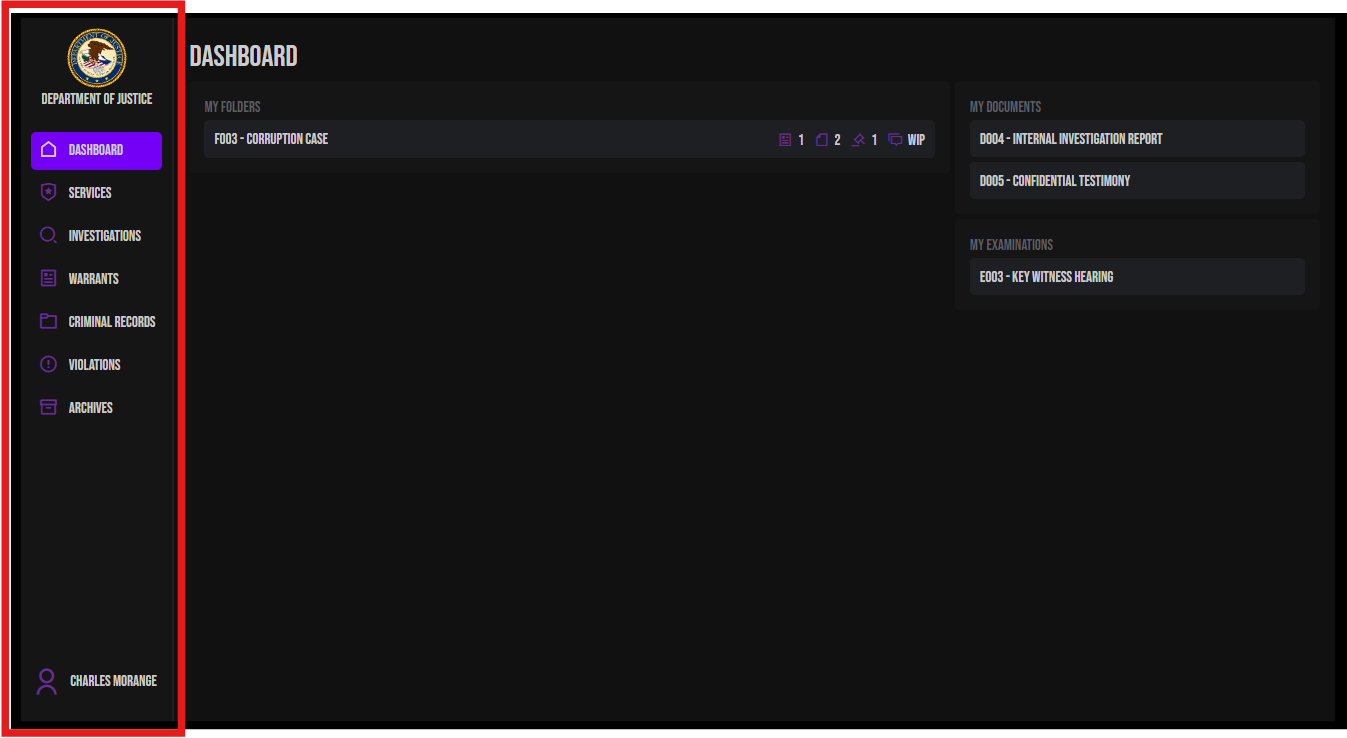
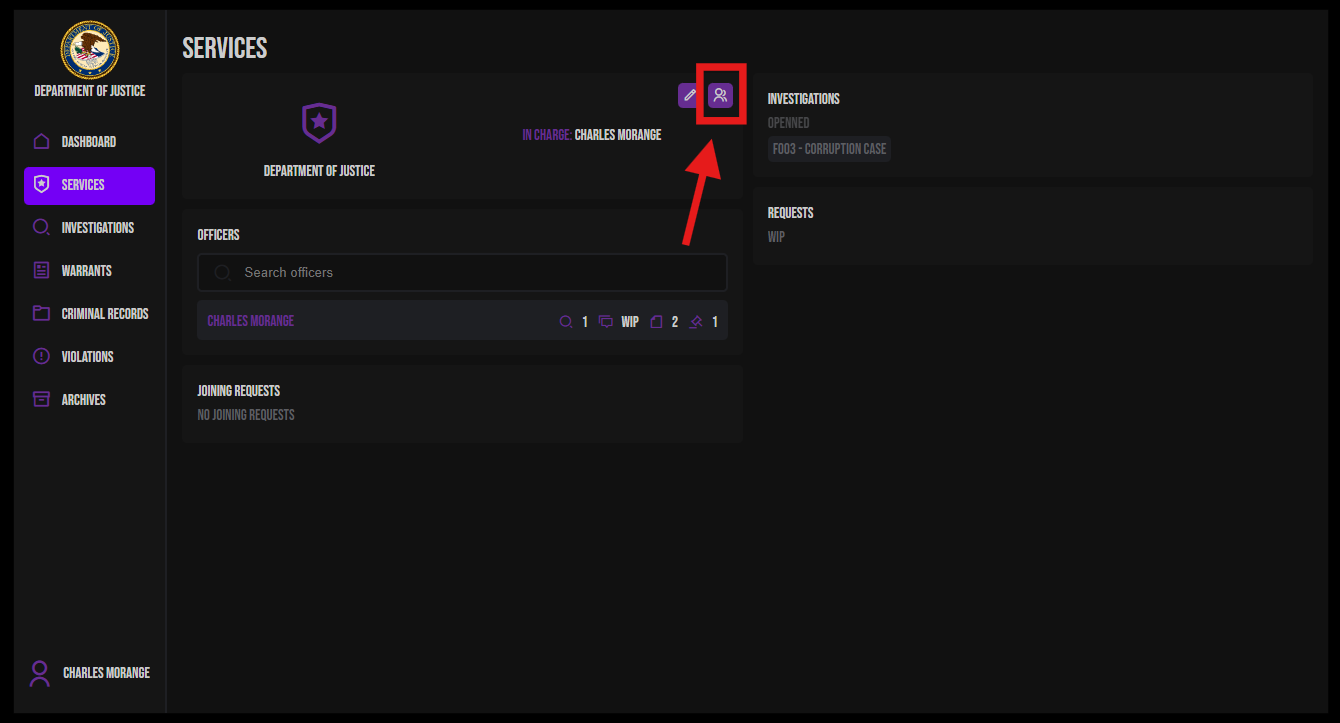
GITBOOK-4: No subject

diff --git a/paid-scripts/madonnedoj/configuration/permissions-system.md b/paid-scripts/madonnedoj/configuration/permissions-system.md
@@ -3,7 +3,7 @@ cover: ../.gitbook/assets/banner.png
 coverY: 0
 ---
 
-# Permission Management System
+# Permissions System
 
 ## Overview
 
@@ -11,243 +11,75 @@ The mg-dojscript permission system allows granular access control for each servi
 
 ## Accessing the Permissions Page
 
+<figure><img src="../../../.gitbook/assets/image (5).png" alt=""><figcaption></figcaption></figure>
+
 The permissions management page is accessible via:
-- **Route**: `/permissions?uid={serviceId}`
-- **Component**: `Permissions.vue`
-- **Access Conditions**: Reserved for service chiefs and users authorized to manage services
+
+* Open your service page
+* Click on role management button
 
 ## Available Permissions List
 
 The system has **10 distinct permissions**:
 
-| Permission | Binary Value | Description |
-|------------|--------------|-------------|
-| `MANAGE_FOLDERS` | 1 (1 << 0) | Create and edit investigations |
-| `MANAGE_DOCUMENTS` | 2 (1 << 1) | Create and edit documents |
-| `MANAGE_WARRANTS` | 4 (1 << 2) | Create and edit warrants |
-| `ISSUE_WARRANTS` | 8 (1 << 3) | Issue/send warrants (Justice only) |
-| `MANAGE_EXAMINATIONS` | 16 (1 << 4) | Create and edit examinations |
-| `MANAGE_REQUESTS` | 32 (1 << 5) | Manage requests (currently disabled) |
-| `MANAGE_RECORDS` | 64 (1 << 6) | Edit criminal records |
-| `MANAGE_SERVICES` | 128 (1 << 7) | Manage membership requests and service settings |
-| `MANAGE_VIOLATIONS` | 256 (1 << 8) | Create and edit violations |
-| `ARCHIVE_FOLDERS` | 512 (1 << 9) | Archive investigations (Justice only) |
+| Permission            | Description                                     |
+| --------------------- | ----------------------------------------------- |
+| `MANAGE_FOLDERS`      | Create and edit investigations                  |
+| `MANAGE_DOCUMENTS`    | Create and edit documents                       |
+| `MANAGE_WARRANTS`     | Create and edit warrants                        |
+| `ISSUE_WARRANTS`      | Issue/send warrants (Justice only)              |
+| `MANAGE_EXAMINATIONS` | Create and edit examinations                    |
+| `MANAGE_REQUESTS`     | Manage requests (currently disabled)            |
+| `MANAGE_RECORDS`      | Edit criminal records                           |
+| `MANAGE_SERVICES`     | Manage membership requests and service settings |
+| `MANAGE_VIOLATIONS`   | Create and edit violations                      |
+| `ARCHIVE_FOLDERS`     | Archive investigations (Justice only)           |
 
-## Technical Implementation
+{% hint style="danger" %}
+DON'T FORGET TO SAVE
 
-### Data Structure
-
-Each role consists of:
-```javascript
-{
-  name: "CHIEF",          // Role name
-  value: 127              // Combined permission value (bit flags)
-}
-```
-
-### Bit Flags System
-
-Permissions use binary operations to combine multiple rights into a single value:
-
-- **Check**: `(userRole.value & permission) === permission`
-- **Enable**: `role.value |= bit`
-- **Disable**: `role.value &= ~bit`
-
-**Example**:
-- A role with `MANAGE_FOLDERS` (1) + `MANAGE_DOCUMENTS` (2) + `MANAGE_WARRANTS` (4) = **value 7**
-- A role with all permissions = **value 1023** (2^10 - 1)
+![](<../../../.gitbook/assets/image (47).png>)
+{% endhint %}
 
 ## Management Interface
 
 ### Features
 
 #### 1. Adding Roles
-- Maximum **6 custom roles** per service
-- The `USER` role is permanent and cannot be deleted
-- Unique name validation
+
+* Maximum **6 custom roles** per service
+* The `USER` role is permanent and cannot be deleted
+* Unique name validation
 
 #### 2. Editing Roles
-- Rename existing roles (except `USER`)
-- Modify permissions via checkboxes
-- Deletion possible (except `USER`)
+
+* Rename existing roles (except `USER`)
+* Modify permissions via checkboxes
+* Deletion possible (except `USER`)
 
 #### 3. Permission Management
-- Table interface with:
-  - **Rows**: List of 10 permissions
-  - **Columns**: Service roles
-- Checkboxes to enable/disable each permission
+
+* Table interface with:
+  * **Rows**: List of 10 permissions
+  * **Columns**: Service roles
+* Checkboxes to enable/disable each permission
 
 #### 4. Smart Save
 
 During save:
 
 **a) Automatic User Synchronization**
-- Users whose role was deleted are demoted to `USER` role
-- Users keep their role if it still exists
-- Automatic update of permission values if modified
+
+* Users whose role was deleted are demoted to `USER` role
+* Users keep their role if it still exists
+* Automatic update of permission values if modified
 
 **b) Service Chiefs Update**
-- Chiefs automatically receive the **highest role** (highest permission value)
-- Ensures chiefs always have maximum access
+
+* Chiefs automatically receive the **highest role** (highest permission value)
+* Ensures chiefs always have maximum access
 
 **c) Change Propagation**
-- Changes are sent to the server via `sendNuiEvent('updateData')`
-- Cascading update of service, users, and chiefs
 
-## Usage in Code
-
-### Permission Checks
-
-The `isAuthorised(type, id)` function centralizes all checks:
-
-```javascript
-import { isAuthorised } from '@/utils/functions'
-
-// Usage examples
-if (isAuthorised('newFolder')) {
-  // Create a new investigation
-}
-
-if (isAuthorised('editDoc', documentId)) {
-  // Edit the document
-}
-
-if (isAuthorised('issueWarrant', warrantId)) {
-  // Issue a warrant
-}
-```
-
-### Available Check Types
-
-#### Creations (`new*`)
-- `newFolder`: Create an investigation
-- `newDoc`: Create a document in an investigation
-- `newWarrant`: Create a warrant in an investigation
-- `newExam`: Create an examination in an investigation
-- `newViolation`: Create a violation
-- `newReccord`: Create a record (always authorized)
-
-#### Modifications (`edit*`)
-- `editFolder`: Edit an investigation
-- `editDoc`: Edit a document
-- `editWarrant`: Edit a warrant
-- `editExam`: Edit an examination
-- `editReccords`: Edit criminal records
-- `editOff`: Edit an officer (chiefs only)
-- `editPendings`: Manage membership requests
-- `editService`: Edit service settings
-
-#### Special Actions
-- `issueWarrant`: Issue a warrant (Justice + permission)
-- `sendWarrant`: Send a warrant (Justice + permission)
-- `archiveFolder`: Archive an investigation (Justice + permission)
-
-## Permission Logic
-
-### Authorization Hierarchy
-
-For most actions, multiple authorization levels exist:
-
-1. **Agent in charge**: Can always edit elements they are responsible for
-2. **Service permission**: Requires permission + belonging to the right service
-3. **Service chief**: Priority access to the service
-4. **Justice service**: Special permissions for certain actions (warrants, archives)
-
-**Example for editing a document**:
-```javascript
-// Authorized IF:
-// - User is in charge of the document OR
-// - User has MANAGE_DOCUMENTS AND belongs to a service linked to the investigation
-// AND the folder is not archived
-```
-
-### Special Restrictions
-
-- **Archived items**: Documents, warrants, and examinations in archived investigations can no longer be edited
-- **Justice warrants**: Only members of a justice service with `ISSUE_WARRANTS` can issue them
-- **Archives**: Only justice services with `ARCHIVE_FOLDERS` can archive
-
-## Warnings and Limitations
-
-### Warning Messages
-
-In the management interface:
-- **Maximum roles**: "COMPONENTS.NOTIFICATIONS.MAX_ROLES" (6 roles max)
-- **Justice roles**: "Some roles will not be used if your service is not judicial"
-- **Navigation**: "Scroll wheel for vertical / Shift + Scroll wheel for horizontal"
-
-### Useless Permissions for Non-Justice Services
-
-The following permissions will only work for services marked as `isJustice: true`:
-- `ISSUE_WARRANTS`
-- `ARCHIVE_FOLDERS`
-
-## Recommendations
-
-### Typical Configuration by Role
-
-**USER Role (default)**
-- No permissions (value: 0)
-- Can only view items they are responsible for
-
-**AGENT Role**
-- `MANAGE_DOCUMENTS` (2)
-- `MANAGE_EXAMINATIONS` (16)
-- `MANAGE_VIOLATIONS` (256)
-- **Total value: 274**
-
-**LIEUTENANT Role**
-- `MANAGE_FOLDERS` (1)
-- `MANAGE_DOCUMENTS` (2)
-- `MANAGE_WARRANTS` (4)
-- `MANAGE_EXAMINATIONS` (16)
-- `MANAGE_VIOLATIONS` (256)
-- **Total value: 279**
-
-**CHIEF Role (maximum)**
-- All permissions
-- **Total value: 1023**
-
-**JUDGE Role (justice service)**
-- All permissions including:
-- `ISSUE_WARRANTS` (8)
-- `ARCHIVE_FOLDERS` (512)
-- **Total value: 1023**
-
-## Server Integration
-
-Permission changes are sent to the server via:
-
-```javascript
-sendNuiEvent('updateData', {
-  tabletData: { /* user data */ },
-  elt: service,
-  type: 'services' // or 'users'
-})
-```
-
-The server must handle these events to:
-- Persist changes to the database
-- Synchronize permissions across all clients
-- Validate permission modifications
-
-## Source Code
-
-### Main Files
-
-- **Component**: `vue/src/components/Permissions.vue`
-- **Utilities**: `vue/src/utils/functions.js` (`PERMISSIONS` constant and `isAuthorised` function)
-- **Translations**: `vue/public/locales/fr.json` and `en.json`
-
-### Dependencies
-
-- Vue 3 (Composition API)
-- Vue Router (navigation)
-- i18n (internationalization)
-
----
-
-**Note**: This system is designed to be scalable. Adding new permissions requires:
-1. Add the constant in `PERMISSIONS` with the next binary value (`1 << 10`, `1 << 11`, etc.)
-2. Add cases in `isAuthorised()`
-3. Update translations
+* Changes are sent to the server
+* Cascading update of service, users, and chiefs

diff --git a/paid-scripts/madonnadmin/configuration/README.md b/paid-scripts/madonnadmin/configuration/README.md
@@ -1,6 +1,6 @@
 # Configuration
 
-<figure><img src="../../../.gitbook/assets/image (45) (1).png" alt=""><figcaption></figcaption></figure>
+<figure><img src="broken-reference" alt=""><figcaption></figcaption></figure>
 
 Madonn'Admin has many settings to adapt as closely as possible to your needs.
 

diff --git a/paid-scripts/madonnadmin/how-to-use-it/README.md b/paid-scripts/madonnadmin/how-to-use-it/README.md
@@ -1,3 +1,3 @@
 # How to use it ?
 
-<figure><img src="../../../.gitbook/assets/image (45) (1).png" alt=""><figcaption></figcaption></figure>
+<figure><img src="broken-reference" alt=""><figcaption></figcaption></figure>
